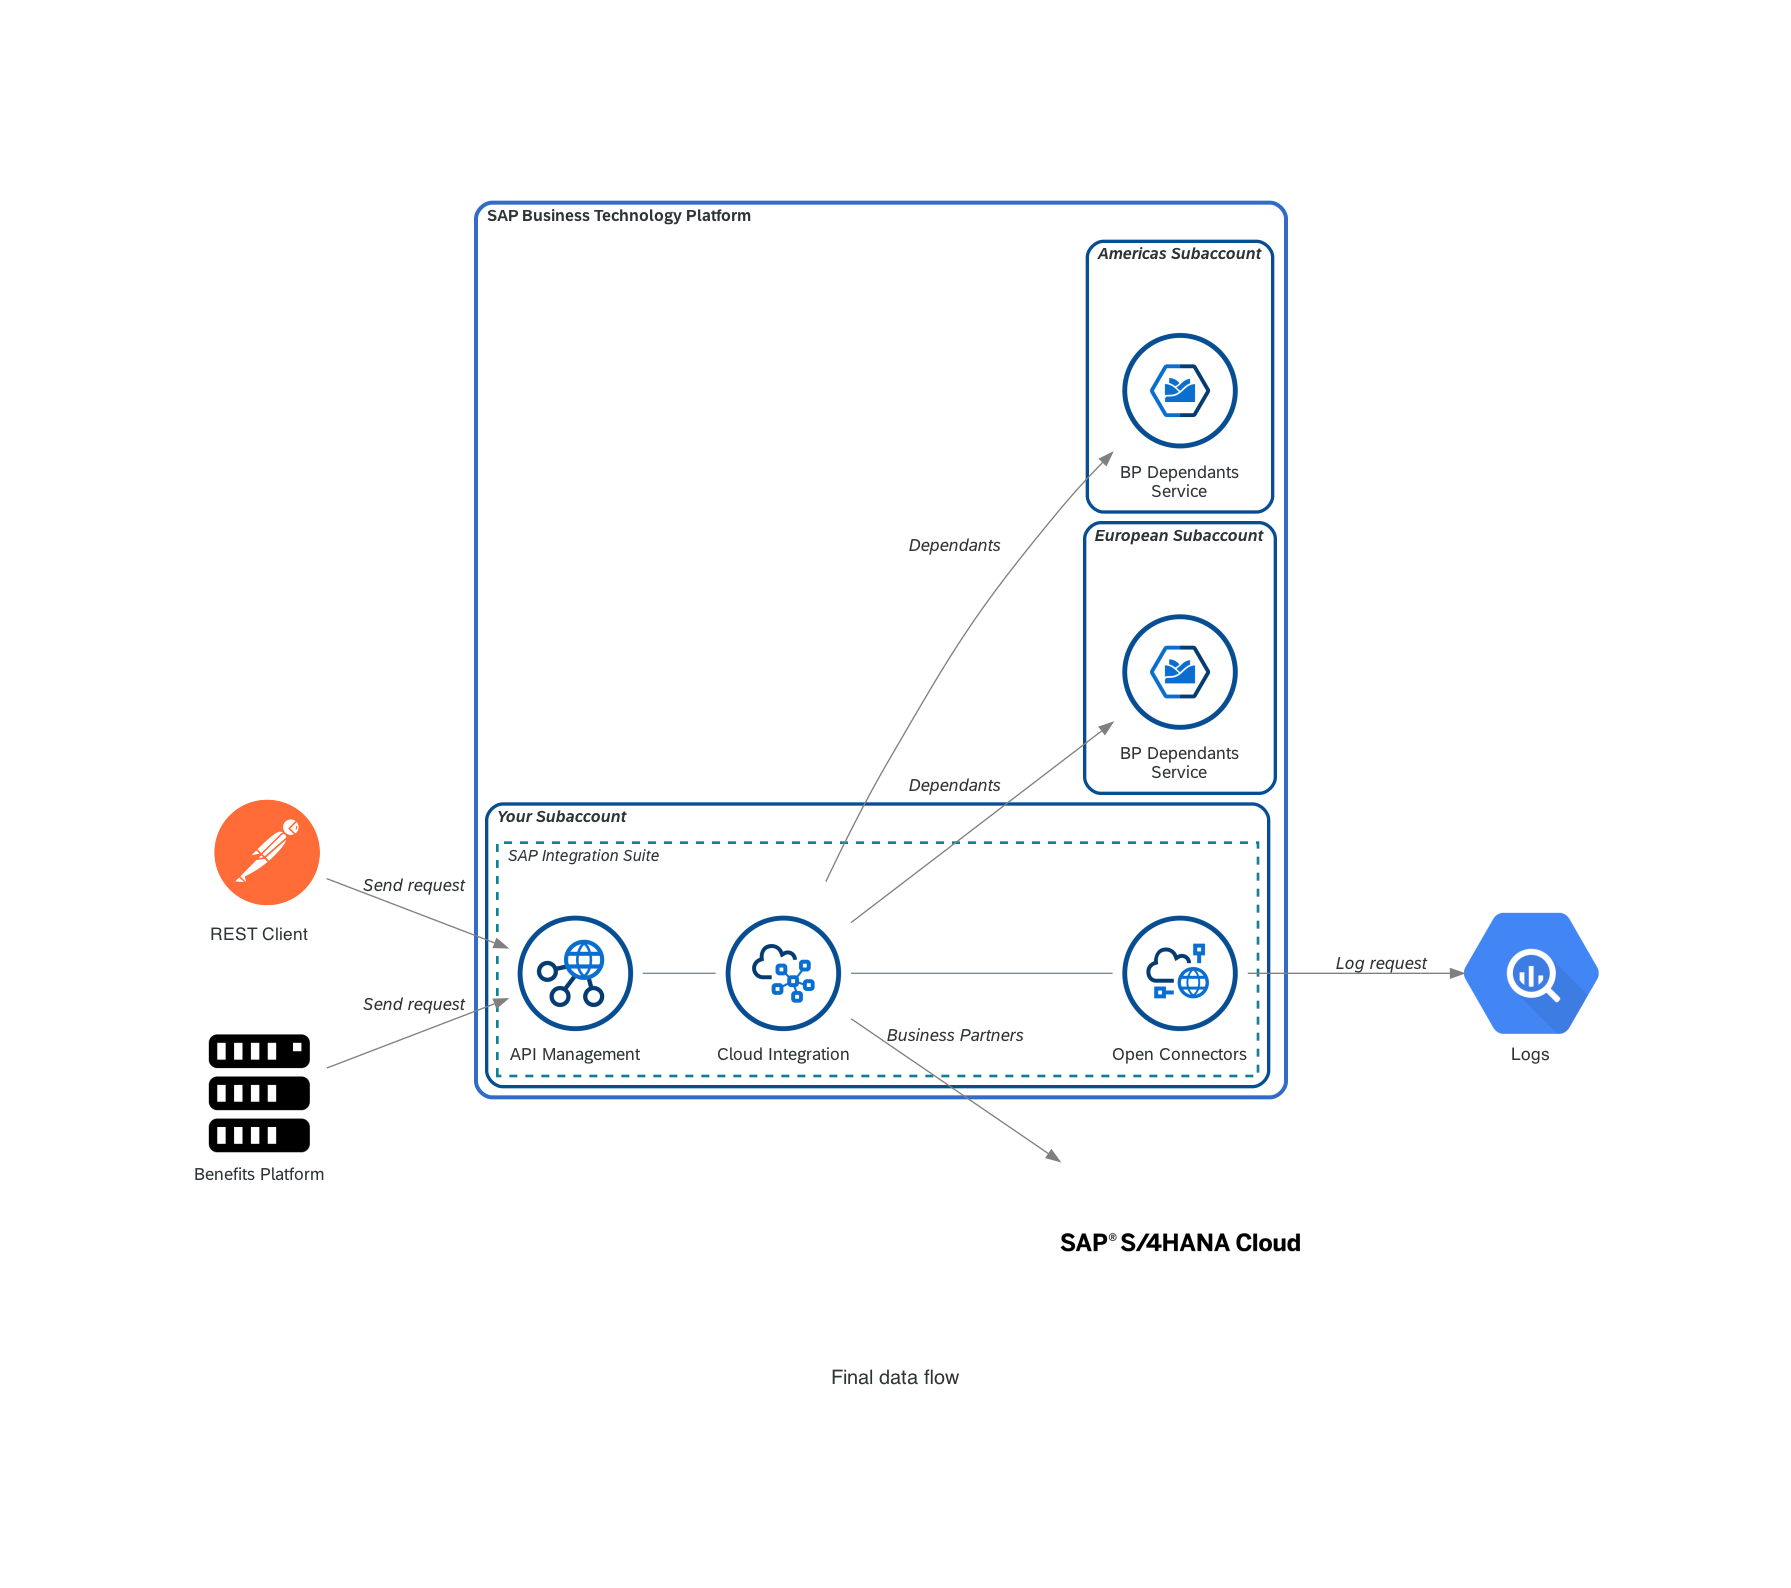
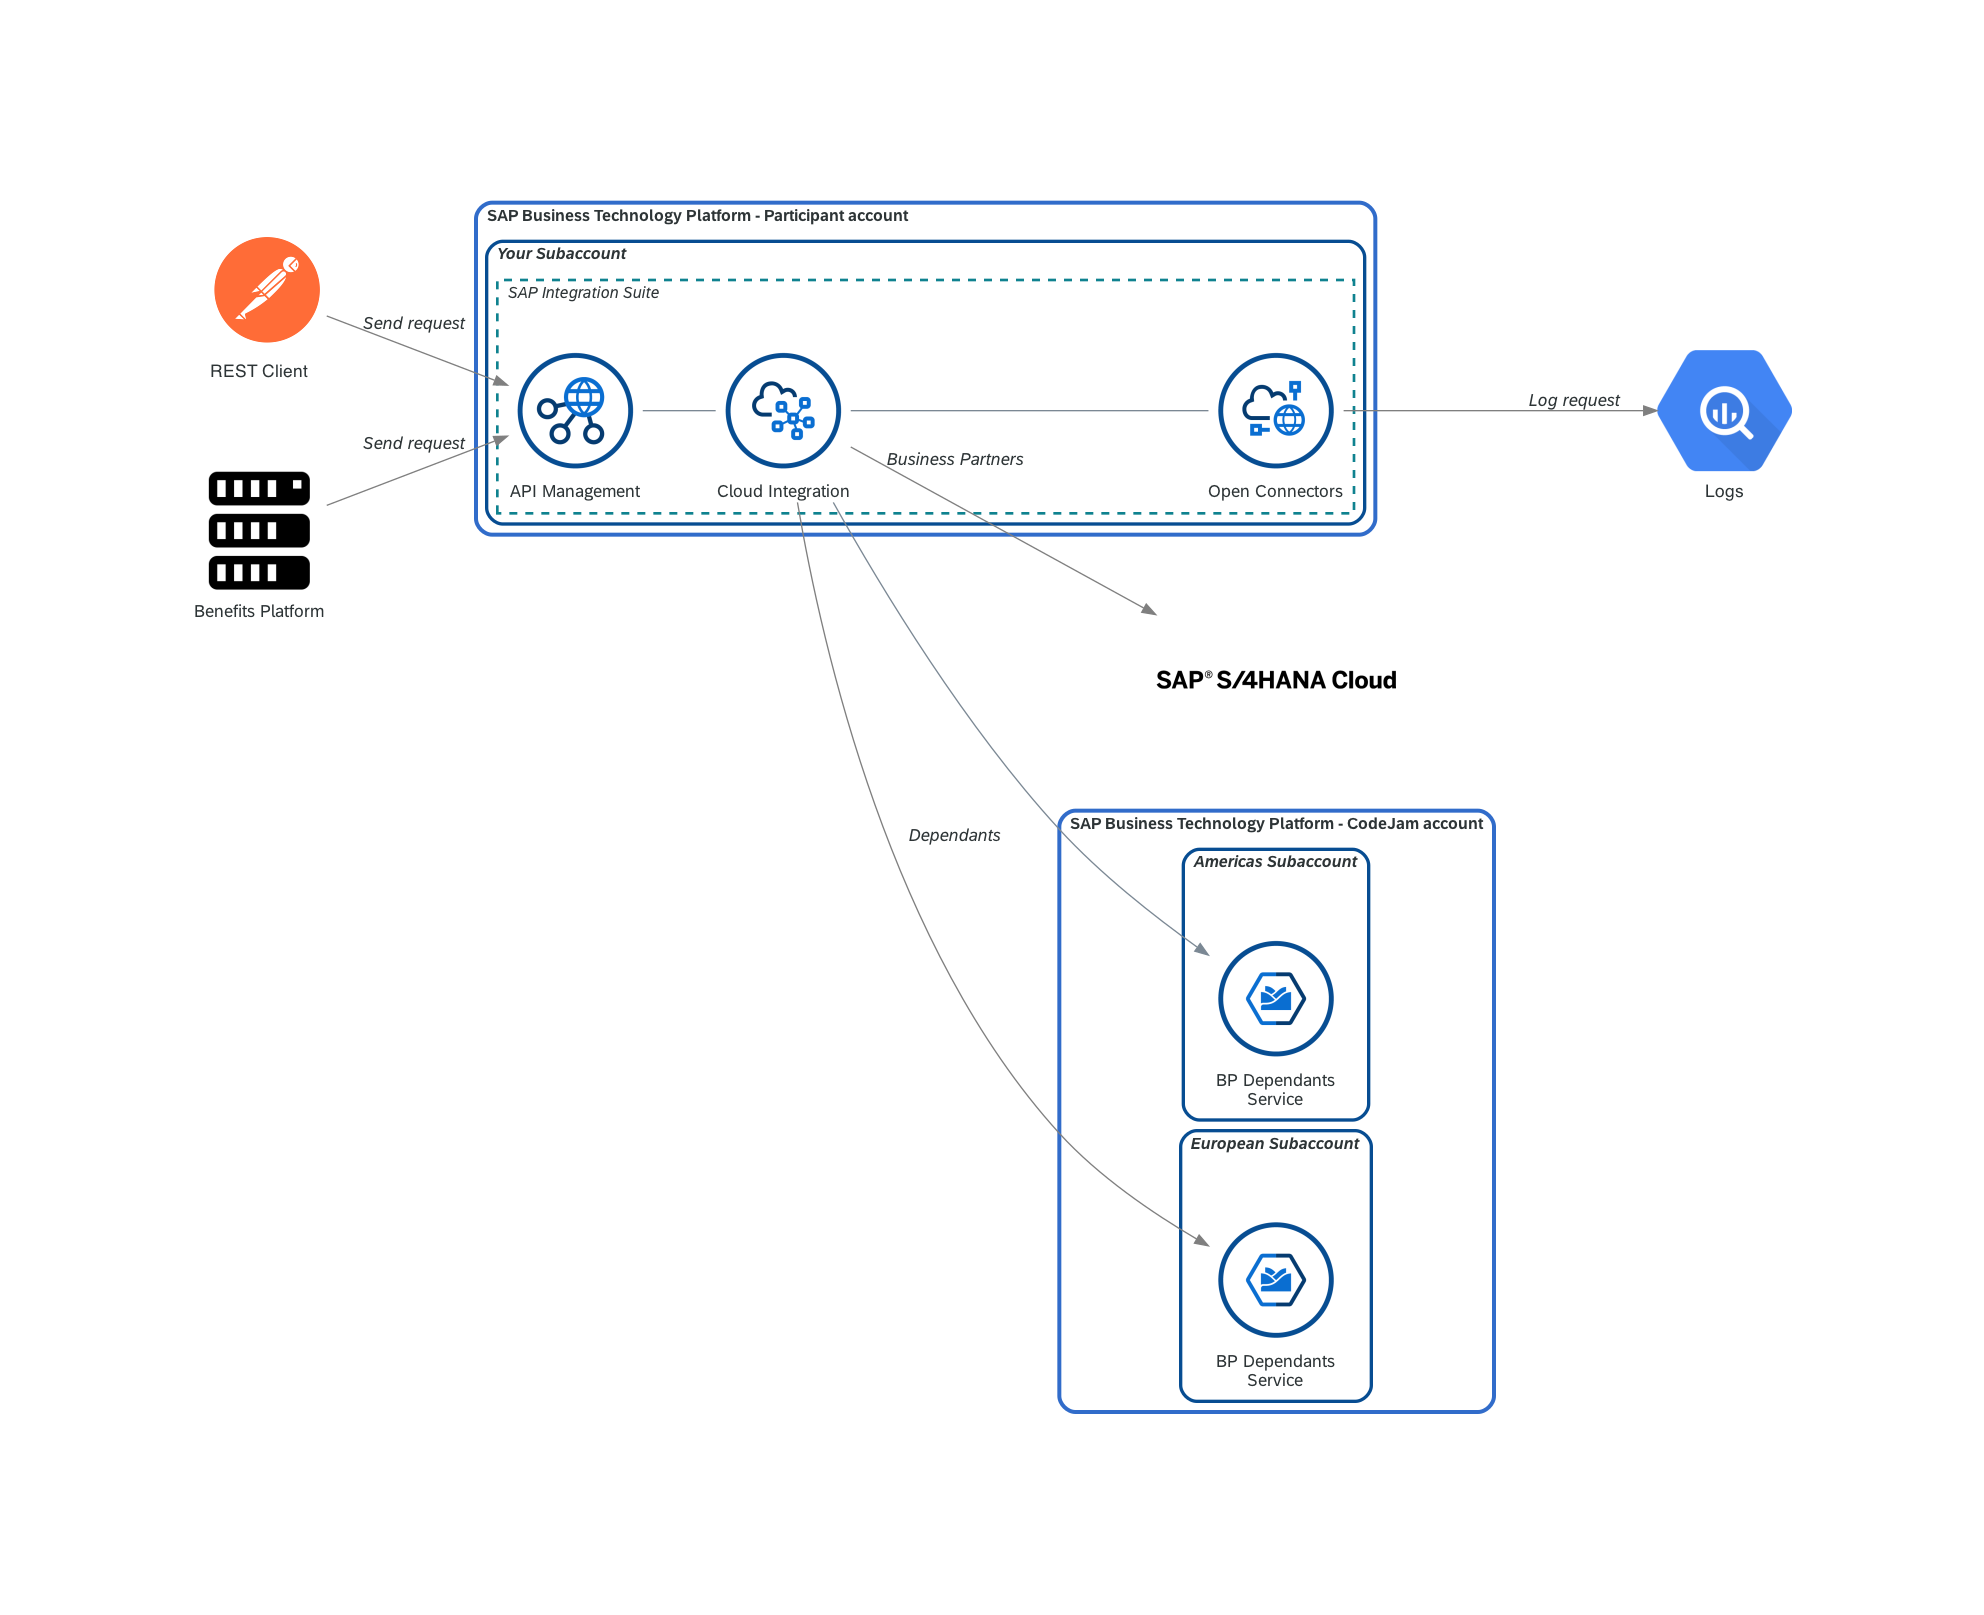
Including final data flow diagram

diff --git a/assets/diagrams/final-diagram.py b/assets/diagrams/final-diagram.py
@@ -27,31 +27,37 @@ PRIMARY_EMPHASIZE_AREA_GRAPH_ATTR = {
 NODE_LABEL = {"fontname": "72 Regular"}
 EDGE_LABEL = {"color": FIX_GREY_COLOUR, "fontname": "72 Italic"}
 
-with Diagram("Final data flow", show=False, filename="final_data_flow", graph_attr={"splines": "true"}):
+with Diagram("", show=False, filename="final_data_flow", graph_attr={"splines": "true"}):
     rest_client = Custom("REST Client", "../postman-logo.png")
     benefits_platform = Server("Benefits Platform", **NODE_LABEL)
     sap_server = SAPS4HANACloud(**{"height": "2.5", "width": "2.5"})
     big_query = BigQuery("Logs")
 
-    with Cluster("SAP Business Technology Platform", graph_attr=GLOBALACCOUNT_GRAPH_ATTR):
+    with Cluster("SAP Business Technology Platform - CodeJam account", graph_attr=GLOBALACCOUNT_GRAPH_ATTR):
+        with Cluster("Americas Subaccount", graph_attr=SUBACCOUNT_GRAPH_ATTR):
+            americas_service = KymaRuntime_Circle("BP Dependants\nService", **NODE_LABEL)
+
+        with Cluster("European Subaccount", graph_attr=SUBACCOUNT_GRAPH_ATTR):
+            european_service = KymaRuntime_Circle("BP Dependants\nService", **NODE_LABEL)
+            
+    with Cluster("SAP Business Technology Platform - Participant account", graph_attr=GLOBALACCOUNT_GRAPH_ATTR):
         with Cluster("Your Subaccount", graph_attr=SUBACCOUNT_GRAPH_ATTR):
             with Cluster("SAP Integration Suite", graph_attr=PRIMARY_EMPHASIZE_AREA_GRAPH_ATTR):
                 cloud_integration = ProcessIntegration_Circle("Cloud Integration", **NODE_LABEL)
                 api_management = APIManagement_Circle("API Management", **NODE_LABEL)
                 open_connectors = OpenConnectors_Circle("Open Connectors", **NODE_LABEL)
+                
+                cloud_integration >> Edge(label="Business Partners", **EDGE_LABEL) >> sap_server
+
+                open_connectors >> Edge(label="Log request", **EDGE_LABEL) >> big_query
+
+                cloud_integration >> americas_service
+
+                cloud_integration >> Edge(label="Dependants", **EDGE_LABEL) >> european_service
+
 
                 benefits_platform >> Edge(label="Send request", orientation="135", **EDGE_LABEL) >> api_management
                 rest_client >> Edge(label="Send request", **EDGE_LABEL) >> api_management
                 api_management - cloud_integration - open_connectors
 
-                cloud_integration >> Edge(label="Business Partners", **EDGE_LABEL) >> sap_server
-
-                open_connectors >> Edge(label="Log request", **EDGE_LABEL) >> big_query
-
-        with Cluster("European Subaccount", graph_attr=SUBACCOUNT_GRAPH_ATTR):
-            european_service = KymaRuntime_Circle("BP Dependants\nService", **NODE_LABEL)
-            cloud_integration >> Edge(label="Dependants", **EDGE_LABEL) >> european_service
-        
-        with Cluster("Americas Subaccount", graph_attr=SUBACCOUNT_GRAPH_ATTR):
-            americas_service = KymaRuntime_Circle("BP Dependants\nService", **NODE_LABEL)
-            cloud_integration >> Edge(label="Dependants", **EDGE_LABEL) >> americas_service
+                

diff --git a/README.md b/README.md
@@ -5,7 +5,9 @@
 
 ⚠ This is a work-in-progress.
 
-In this SAP CodeJam we will look at different services, part of the SAP Integration Suite, and how we can use them to connect our systems and services.
+In this SAP CodeJam, we will look at different services part of the SAP Integration Suite and how we can use them to connect our systems and services. By the end of the CodeJam, we will achieve an integration scenario like the one below in the diagram.
+
+![Final data flow](assets/diagrams/final_data_flow.png)
 
 ## Integration Scenario
 
